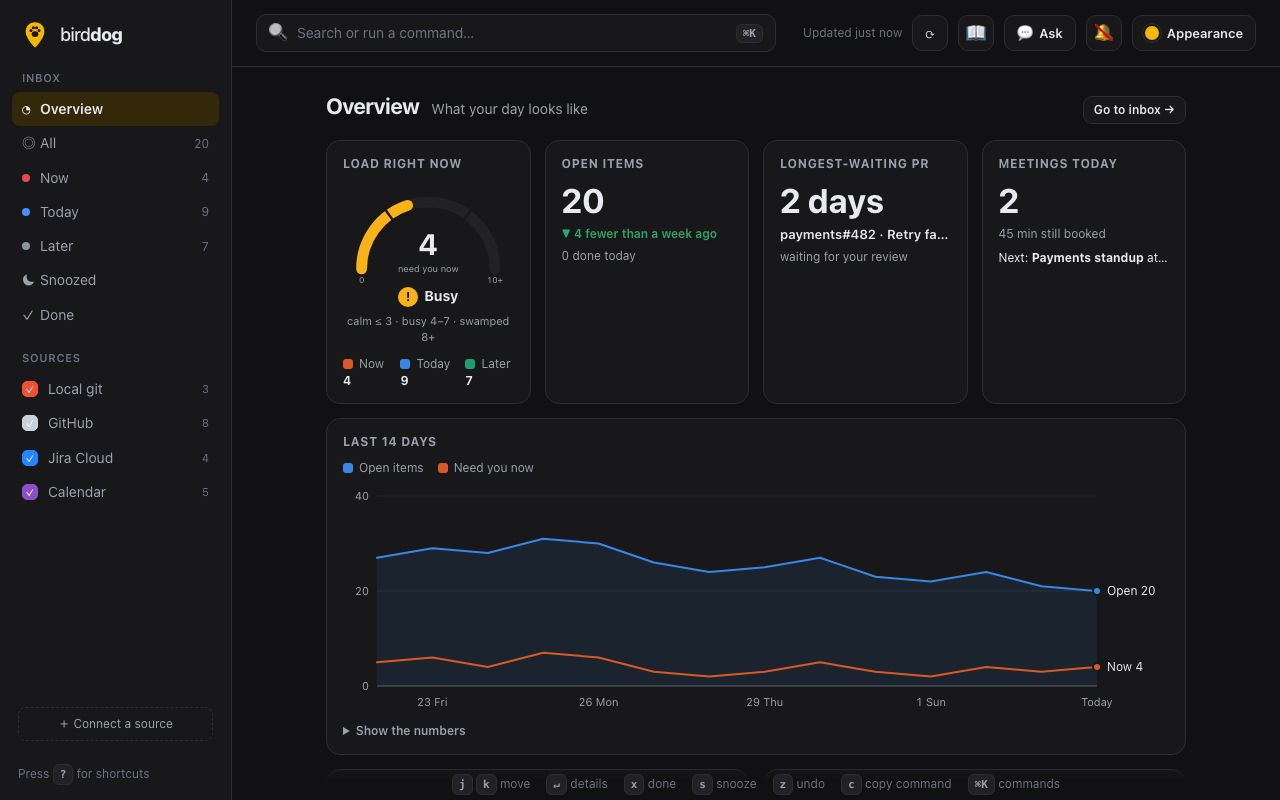
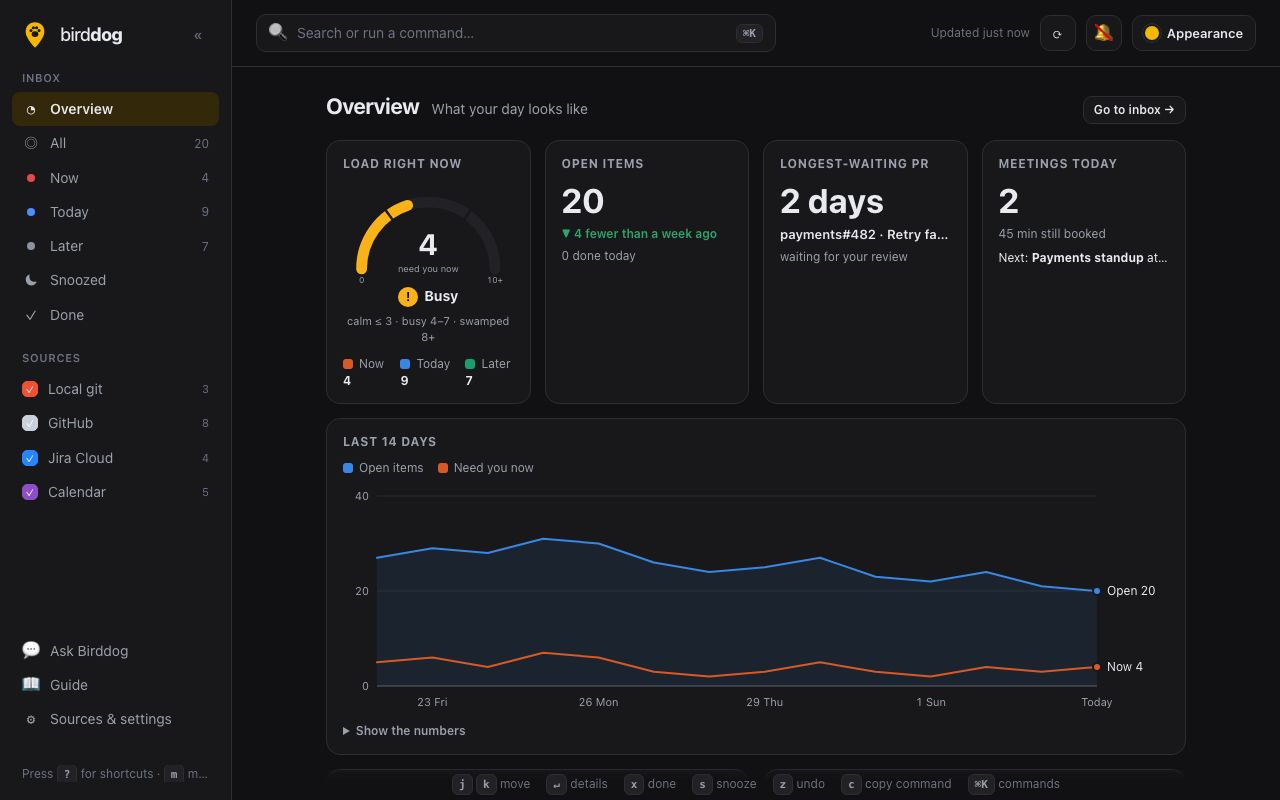
Collapsible main menu rail (v1.6)
The left sidebar is now the main menu: Overview, the inbox views,
sources, Ask Birddog, the guide, and Sources & settings.
- It collapses to icons with count badges (« or `m`); every icon keeps
  its label as a tooltip and accessible name.
- Its state is remembered (prefs railOpen).
- On phones it becomes a drawer behind a ☰ button, with a scrim and
  Esc to close.
- It fits alongside the guide rail. Both open: the main column stays
  usable, and the guide docks next to a collapsed menu from 1060px
  and floats over the page below that.

Ask and Guide moved from the top bar into the menu. The chat panel no
longer flashes its setup view before its status loads; screenshots
re-taken.

Docs: how to register the working copy as Claude Code's MCP server.

194 tests.

diff --git a/public/js/app.js b/public/js/app.js
@@ -88,11 +88,11 @@ const current = () => { const l = ordered(); return l[selIndex(l)]; };
 // Rendering
 
 function renderNav() {
-  const ov = `<button class="${st.view === 'overview' ? 'active' : ''}" data-view="overview" aria-current="${st.view === 'overview'}"><span style="width:8px;text-align:center" aria-hidden="true">◔</span>Overview<kbd class="hint">0</kbd><span class="count"></span></button>`;
+  const ov = `<button class="${st.view === 'overview' ? 'active' : ''}" data-view="overview" aria-current="${st.view === 'overview'}" title="Overview (0)" aria-label="Overview"><span class="ico" aria-hidden="true">◔</span><span class="rl">Overview</span><kbd class="hint">0</kbd><span class="count"></span></button>`;
   $('#views').innerHTML = ov + VIEWS.map(([k, label, icon], n) => {
-    const dot = URG[k] ? `<span class="dot" style="background:${URG[k].c}"></span>` : `<span style="width:8px;text-align:center" aria-hidden="true">${icon}</span>`;
+    const mark = URG[k] ? `<span class="ico" aria-hidden="true"><span class="dot" style="background:${URG[k].c}"></span></span>` : `<span class="ico" aria-hidden="true">${icon}</span>`;
     const count = visible(k).length;
-    return `<button class="${st.view === k ? 'active' : ''}" data-view="${k}" aria-current="${st.view === k}">${dot}${label}<kbd class="hint">${n + 1}</kbd><span class="count">${count || ''}</span></button>`;
+    return `<button class="${st.view === k ? 'active' : ''}" data-view="${k}" aria-current="${st.view === k}" title="${label} (${n + 1})" aria-label="${label}${count ? `, ${count}` : ''}">${mark}<span class="rl">${label}</span><kbd class="hint">${n + 1}</kbd><span class="count">${count || ''}</span></button>`;
   }).join('');
 
   const real = st.sources.map((s) => {
@@ -101,7 +101,7 @@ function renderNav() {
     const status = s.status === 'stale' ? `<span class="src-status warn" title="${esc(staleTitle(s))}">! stale</span>`
       : s.status === 'pending' ? '<span class="src-status">…</span>'
         : `<span class="src-status">${s.count || ''}</span>`;
-    return `<button class="src-toggle ${on ? 'on' : ''}" data-src="${esc(s.id)}" style="--c:${info.c}" aria-pressed="${on}" title="${on ? 'Hide' : 'Show'} ${esc(s.name)} items"><span class="check">${on ? '✓' : ''}</span>${esc(s.name)}${status}</button>`;
+    return `<button class="src-toggle ${on ? 'on' : ''} ${s.status === 'stale' ? 'is-stale' : ''}" data-src="${esc(s.id)}" style="--c:${info.c}" aria-pressed="${on}" title="${on ? 'Hide' : 'Show'} ${esc(s.name)} items${s.status === 'stale' ? ' (stale)' : ''}" aria-label="${esc(s.name)}${s.status === 'stale' ? ', stale' : ''}"><span class="check" aria-hidden="true">${on ? '✓' : ''}</span><span class="rl">${esc(s.name)}</span>${status}</button>`;
   });
   const soon = COMING.filter(([id]) => !st.sources.some((s) => s.id === id))
     .map(([id, name]) => `<button class="src-toggle soon" data-soon="${id}" title="Coming soon"><span class="check"></span>${name}<span class="src-status">soon</span></button>`);
@@ -421,7 +421,37 @@ const snoozeOpen = () => $('#snooze').classList.contains('open');
 // ---------------------------------------------------------------------------
 // Views, sources, overlays
 
-function setView(v) { st.view = v; st.selId = null; closeDrawer(); render(); }
+function setView(v) { st.view = v; st.selId = null; closeDrawer(); closeMobileRail(); render(); }
+
+// ---------------------------------------------------------------------------
+// Main menu rail: collapsible on desktop (icons only), a drawer on phones.
+
+const mobile = () => matchMedia('(max-width: 760px)').matches;
+function setRail(open, { save = true } = {}) {
+  document.body.classList.toggle('rail-collapsed', !open);
+  const t = $('#railToggle');
+  t.setAttribute('aria-expanded', String(open));
+  t.title = open ? 'Collapse the menu (m)' : 'Expand the menu (m)';
+  t.setAttribute('aria-label', open ? 'Collapse the menu' : 'Expand the menu');
+  if (save) savePrefs({ railOpen: open });
+  window.dispatchEvent(new Event('resize'));
+}
+function openMobileRail() {
+  document.body.classList.add('rail-mobile-open');
+  $('#railScrim').hidden = false;
+  $('#menuBtn').setAttribute('aria-expanded', 'true');
+  $('#rail').querySelector('button')?.focus();
+}
+function closeMobileRail() {
+  if (!document.body.classList.contains('rail-mobile-open')) return;
+  document.body.classList.remove('rail-mobile-open');
+  $('#railScrim').hidden = true;
+  $('#menuBtn').setAttribute('aria-expanded', 'false');
+}
+function toggleRail() {
+  if (mobile()) return document.body.classList.contains('rail-mobile-open') ? closeMobileRail() : openMobileRail();
+  return setRail(document.body.classList.contains('rail-collapsed'));
+}
 
 function setHidden(next) {
   st.hidden = new Set(next);
@@ -464,6 +494,7 @@ function commands() {
     { label: 'Notifications…', run: () => toggleNotifyPanel() },
     { label: 'Ask Birddog…', k: 'a', run: () => toggleChat() },
     { label: guideOpen() ? 'Hide the guide' : 'Open the guide', k: 'g', run: () => toggleGuide() },
+    { label: document.body.classList.contains('rail-collapsed') ? 'Expand the menu' : 'Collapse the menu', k: 'm', run: () => toggleRail() },
     ...[['start', 'Getting started'], ['sources', 'Sources'], ['notifications', 'Notifications'], ['chat', 'Ask Birddog'], ['docker', 'Docker'], ['mcp', 'MCP']].map(([id, t]) => ({ label: `Guide: ${t}`, run: () => openGuide(id) })),
     ...Object.entries(PALETTE_NAMES).map(([p, n]) => ({ label: `Theme: ${n}`, run: () => setPalette(p) })),
     { label: 'Mode: follow system', run: () => setMode('system') },
@@ -969,11 +1000,14 @@ document.addEventListener('click', (e) => {
 $('#openPalette').onclick = () => openPalette();
 let resizeTimer = null;
 window.addEventListener('resize', () => { clearTimeout(resizeTimer); resizeTimer = setTimeout(() => { if (st.view === 'overview') renderOverview(); }, 120); });
-$('#openSetup').onclick = () => openSetup();
+$('#openSetup').onclick = () => { closeMobileRail(); openSetup(); };
 $('#refresh').onclick = refresh;
 $('#appearBtn').onclick = (e) => { e.stopPropagation(); appearOpen() ? closeAppear() : openAppear(); };
-$('#chatBtn').onclick = () => toggleChat();
-$('#guideBtn').onclick = () => toggleGuide();
+$('#chatBtn').onclick = () => { closeMobileRail(); toggleChat(); };
+$('#railToggle').onclick = () => toggleRail();
+$('#menuBtn').onclick = () => openMobileRail();
+$('#railScrim').onclick = () => closeMobileRail();
+$('#guideBtn').onclick = () => { closeMobileRail(); toggleGuide(); };
 for (const type of ['click', 'input', 'keydown']) $('#guideRail').addEventListener(type, (e) => { if (onGuideEvent(e)) e.stopPropagation(); });
 for (const type of ['click', 'change', 'submit', 'keydown']) $('#chatPanel').addEventListener(type, (e) => { e.stopPropagation(); onChatEvent(e); });
 $('#notifyBtn').onclick = (e) => { e.stopPropagation(); closeAppear(); toggleNotifyPanel(); };
@@ -998,6 +1032,7 @@ document.addEventListener('keydown', (e) => {
     if (appearOpen()) return closeAppear();
     if (notifyPanelOpen()) return closeNotifyPanel();
     if (chatOpen()) return closeChat();
+    if (document.body.classList.contains('rail-mobile-open')) return closeMobileRail();
     if (overlay() || snoozeOpen()) return closeAll();
     if (drawerOpen()) return closeDrawer();
     if (st.query) { st.query = ''; render(); }
@@ -1033,6 +1068,7 @@ document.addEventListener('keydown', (e) => {
     case 'o': return openLink(sel);
     case 'a': e.preventDefault(); return toggleChat();
     case 'g': e.preventDefault(); return toggleGuide();
+    case 'm': e.preventDefault(); return toggleRail();
     case 'r': return refresh();
     // No toast here: it would replace a pending "Undo" toast, and the change is visible anyway.
     case 't': toggleTheme(); return;
@@ -1085,6 +1121,7 @@ async function boot() {
   initAppearance({ prefs, save: savePrefs, changed: () => { if (appearOpen()) renderAppear(); loadShots(); } });
   initGuide({ open: !!prefs.guideOpen, save: (open) => savePrefs({ guideOpen: open }), theme: () => document.documentElement.dataset.theme });
   st.hidden = new Set(prefs.hiddenSources ?? []);
+  setRail(prefs.railOpen !== false, { save: false });
   render();
   await load();
   initChat({ api, toast, onChanged: () => load({ quiet: true }) });

diff --git a/public/css/birddog.css b/public/css/birddog.css
@@ -34,11 +34,13 @@ a{color:var(--accent)}
 kbd{font:600 11px/1 ui-monospace,SFMono-Regular,Menlo,monospace;padding:3px 6px;border-radius:6px;background:var(--panel-2);border:1px solid var(--line);color:var(--muted)}
 code{font:12.5px/1.5 ui-monospace,SFMono-Regular,Menlo,monospace}
 .sr-only{position:absolute;width:1px;height:1px;overflow:hidden;clip:rect(0 0 0 0);white-space:nowrap}
-.app{display:grid;grid-template-columns:232px 1fr;height:100vh}
-body.guide-open .app{grid-template-columns:232px minmax(0,1fr) 360px}
+:root{--rail-w:232px}
+body.rail-collapsed{--rail-w:64px}
+.app{display:grid;grid-template-columns:var(--rail-w) minmax(0,1fr);height:100vh;transition:grid-template-columns .2s ease}
+body.guide-open .app{grid-template-columns:var(--rail-w) minmax(0,1fr) 360px}
 
 /* Sidebar */
-aside{border-right:1px solid var(--line);padding:18px 12px;display:flex;flex-direction:column;gap:18px;background:var(--panel);overflow:auto}
+.rail{border-right:1px solid var(--line);padding:18px 12px;display:flex;flex-direction:column;gap:18px;background:var(--panel);overflow-x:hidden;overflow-y:auto;min-width:0}
 .brand{display:flex;align-items:center;gap:10px;padding:2px 8px;font-weight:500;font-size:18px;letter-spacing:-.03em}
 .brand b{font-weight:800}
 .logo{width:30px;height:30px;display:grid;place-items:center}.logo svg{width:30px;height:30px}
@@ -56,13 +58,10 @@ aside{border-right:1px solid var(--line);padding:18px 12px;display:flex;flex-dir
 .src-toggle.soon .check{border-style:dashed}
 .src-status{margin-left:auto;font-size:11px;color:var(--faint);font-variant-numeric:tabular-nums}
 .src-status.warn{color:var(--warn);font-weight:600}
-.sidebar-foot{margin-top:auto;display:flex;flex-direction:column;gap:6px;padding:0 6px;font-size:12px;color:var(--faint)}
-.sidebar-foot button{border:1px dashed var(--line);background:none;border-radius:8px;padding:7px;color:var(--muted)}
-.sidebar-foot button:hover{border-color:var(--accent);color:var(--accent)}
 .me{display:flex;align-items:center;gap:8px;padding:6px 2px;color:var(--muted);min-width:0}
 .me .who{flex:1;min-width:0;overflow:hidden;text-overflow:ellipsis;white-space:nowrap}
 .me .avatar{width:22px;height:22px;border-radius:50%;display:grid;place-items:center;background:var(--brand-bg);color:var(--on-brand);font-weight:700;font-size:11px;flex:none}
-.sidebar-foot .me button{border:0;padding:2px 4px;font-size:12px}
+.rail-foot .me button{border:0;background:none;padding:2px 4px;font-size:12px;color:var(--muted)}
 .code{font:700 22px/1 ui-monospace,SFMono-Regular,Menlo,monospace;letter-spacing:.12em;padding:10px 12px;border-radius:8px;background:var(--panel-2);text-align:center;color:var(--text)}
 
 /* Main */
@@ -305,11 +304,14 @@ main{display:flex;flex-direction:column;min-width:0;overflow:hidden}
 .toast button{background:none;border:0;color:var(--accent);font-weight:700;filter:brightness(1.3);white-space:nowrap}
 .toast kbd{background:transparent;color:inherit;border-color:currentColor;opacity:.6}
 
-.keybar{position:fixed;bottom:0;left:232px;right:var(--guide-w,0px);display:flex;gap:16px;justify-content:center;padding:8px;font-size:12px;color:var(--faint);background:linear-gradient(transparent,var(--bg) 40%);pointer-events:none}
+.keybar{position:fixed;bottom:0;left:var(--rail-w);right:var(--guide-w,0px);display:flex;gap:16px;justify-content:center;padding:8px;font-size:12px;color:var(--faint);background:linear-gradient(transparent,var(--bg) 40%);pointer-events:none}
 
 @media (max-width:760px){
-  .app{grid-template-columns:1fr}
-  aside{display:none}
+  .app,body.rail-collapsed .app,body.guide-open .app{grid-template-columns:1fr}
+  .rail{position:fixed;top:0;left:0;bottom:0;width:min(84vw,280px);z-index:40;transform:translateX(-105%);transition:transform .22s ease;box-shadow:var(--shadow)}
+  body.rail-mobile-open .rail{transform:none}
+  .rail-toggle{display:none}
+  .menu-btn{display:grid!important}
   .keybar{display:none}
   .topbar{padding:12px 16px}
   .content{padding:16px 16px 60px}
@@ -443,3 +445,42 @@ body.guide-open .guide{display:flex}
 .page-head .btn{white-space:nowrap}
 @media (max-width:1100px){.topbar .updated{display:none}}
 @media (max-width:1400px){body.guide-open .keybar{display:none}}
+
+/* ---- Main menu rail ------------------------------------------------------- */
+.brand{position:relative}
+.rail-toggle{margin-left:auto;width:26px;height:26px;border-radius:7px;border:1px solid transparent;background:none;color:var(--faint);font-size:14px;line-height:1;display:grid;place-items:center;flex:none}
+.rail-toggle:hover{border-color:var(--line);color:var(--text)}
+.nav .ico{width:18px;flex:none;display:grid;place-items:center;font-size:14px}
+nav .rl,.rail .rl{white-space:nowrap;overflow:hidden;text-overflow:ellipsis;min-width:0}
+.rail-foot{margin-top:auto;display:flex;flex-direction:column;gap:8px}
+.rail-foot .nav button{color:var(--muted)}
+.rail-hint{font-size:12px;color:var(--faint);padding:0 10px}
+.rail-foot .me{padding:6px 10px}
+.menu-btn{display:none}
+.rail-scrim{position:fixed;inset:0;background:rgba(10,12,16,.35);z-index:39}
+.src-toggle.is-stale .check{box-shadow:0 0 0 2px var(--panel),0 0 0 3.5px var(--warn)}
+/* Collapsed: icons only. Labels move into tooltips (title) and accessible names. */
+body.rail-collapsed .rail{padding:18px 8px;align-items:stretch}
+body.rail-collapsed .rail .rl,body.rail-collapsed .rail .nav-label,body.rail-collapsed .rail .hint,body.rail-collapsed .rail .src-status,body.rail-collapsed .rail .me .who,body.rail-collapsed .rail .me button{display:none}
+body.rail-collapsed .brand{flex-direction:column;gap:8px;padding:2px 0}
+body.rail-collapsed .rail-toggle{margin:0;transform:rotate(180deg)}
+body.rail-collapsed .nav button{justify-content:center;padding:8px 0;position:relative}
+body.rail-collapsed .nav .count{position:absolute;top:1px;right:4px;margin:0;font-size:10px;font-weight:700;min-width:15px;height:15px;line-height:15px;border-radius:8px;text-align:center;background:var(--panel-2);color:var(--text)}
+body.rail-collapsed .nav .count:empty{display:none}
+body.rail-collapsed .nav button[data-view="now"] .count{background:var(--now);color:#fff}
+body.rail-collapsed .rail>div:not(.brand):not(.rail-foot){border-top:1px solid var(--line);padding-top:10px}
+body.rail-collapsed .rail .me{justify-content:center;padding:6px 0}
+@media (max-width:760px){
+  body.rail-collapsed .rail .rl,body.rail-collapsed .rail .nav-label,body.rail-collapsed .rail .src-status{display:revert}
+  body.rail-collapsed .rail{padding:18px 12px}
+  body.rail-collapsed .nav button{justify-content:flex-start;padding:7px 10px}
+  body.rail-collapsed .nav .count{position:static;background:none;color:var(--faint);margin-left:auto}
+  body.rail-collapsed .brand{flex-direction:row}
+}
+/* With the menu collapsed, the guide can dock on narrower screens too. */
+@media (min-width:1060px) and (max-width:1199px){
+  body.rail-collapsed.guide-open .app{grid-template-columns:var(--rail-w) minmax(0,1fr) 360px}
+  body.rail-collapsed.guide-open{--guide-w:360px}
+  body.rail-collapsed.guide-open .guide{position:static;width:auto;box-shadow:none;z-index:auto}
+}
+#guideBtn[aria-expanded="true"],#chatBtn.on{color:var(--accent)}

diff --git a/public/index.html b/public/index.html
@@ -20,8 +20,9 @@
 </defs></svg>
 
 <div class="app">
-  <aside>
-    <div class="brand"><div class="logo"><svg viewBox="0 0 64 64" aria-hidden="true"><use href="#pin"/></svg></div><span>bird<b>dog</b></span></div>
+  <aside class="rail" id="rail" aria-label="Main menu">
+    <div class="brand"><div class="logo"><svg viewBox="0 0 64 64" aria-hidden="true"><use href="#pin"/></svg></div><span class="rl">bird<b>dog</b></span>
+      <button class="rail-toggle" id="railToggle" aria-controls="rail" aria-expanded="true" title="Collapse the menu (m)" aria-label="Collapse the menu">«</button></div>
     <div>
       <div class="nav-label">Inbox</div>
       <nav class="nav" id="views" aria-label="Views"></nav>
@@ -30,20 +31,24 @@
       <div class="nav-label">Sources</div>
       <nav class="nav" id="sources" aria-label="Sources"></nav>
     </div>
-    <div class="sidebar-foot">
-      <button id="openSetup">＋ Connect a source</button>
+    <div class="rail-foot">
+      <nav class="nav" aria-label="Tools">
+        <button id="chatBtn" title="Ask Birddog (a)" aria-label="Ask Birddog"><span class="ico" aria-hidden="true">💬</span><span class="rl">Ask Birddog</span><kbd class="hint">a</kbd></button>
+        <button id="guideBtn" title="Guide (g)" aria-label="Guide" aria-controls="guideRail" aria-expanded="false"><span class="ico" aria-hidden="true">📖</span><span class="rl">Guide</span><kbd class="hint">g</kbd></button>
+        <button id="openSetup" title="Sources and settings" aria-label="Sources and settings"><span class="ico" aria-hidden="true">⚙</span><span class="rl">Sources &amp; settings</span></button>
+      </nav>
       <div class="me" id="me" hidden></div>
-      <div>Press <kbd>?</kbd> for shortcuts</div>
+      <div class="rl rail-hint">Press <kbd>?</kbd> for shortcuts · <kbd>m</kbd> menu</div>
     </div>
   </aside>
+  <div class="rail-scrim" id="railScrim" hidden></div>
 
   <main>
     <div class="topbar">
+      <button class="icon-btn menu-btn" id="menuBtn" aria-label="Menu (m)" aria-controls="rail" aria-expanded="false">☰</button>
       <button class="search" id="openPalette" aria-label="Search or run a command"><span aria-hidden="true">🔍</span><span>Search or run a command…</span><kbd>⌘K</kbd></button>
       <span class="updated" id="updated" aria-live="polite"></span>
       <button class="icon-btn" id="refresh" title="Refresh (r)" aria-label="Refresh"><span>⟳</span></button>
-      <button class="icon-btn guide-btn" id="guideBtn" title="Guide (g)" aria-label="Guide" aria-controls="guideRail" aria-expanded="false">📖</button>
-      <button class="ask-btn" id="chatBtn" title="Ask Birddog (a)" aria-label="Ask Birddog"><span aria-hidden="true">💬</span><span>Ask</span></button>
       <button class="icon-btn notify-btn" id="notifyBtn" title="Notifications" aria-label="Notifications" aria-haspopup="dialog">🔕</button>
       <button class="appear-btn" id="appearBtn" title="Appearance" aria-haspopup="dialog"><i></i><span>Appearance</span></button>
     </div>
@@ -71,6 +76,7 @@
   <div>Switch view <span><kbd>1</kbd>–<kbd>6</kbd></span></div><div>Close <kbd>esc</kbd></div>
   <div>Restore (Done / Snoozed) <kbd>u</kbd></div><div>This sheet <kbd>?</kbd></div>
   <div>Ask Birddog <kbd>a</kbd></div><div>Guide <kbd>g</kbd></div>
+  <div>Overview <kbd>0</kbd></div><div>Menu <kbd>m</kbd></div>
 </div></div></div>
 
 <div class="scrim" id="setupScrim"><div class="modal setup" role="dialog" aria-labelledby="setupTitle">

diff --git a/public/js/chat.js b/public/js/chat.js
@@ -18,6 +18,7 @@ export function initChat(options) { ctx = options; }
 export async function openChat() {
   $('#chatPanel').classList.add('open');
   document.body.classList.add('chat-open');
+  if (!status) $('#chatPanel').innerHTML = '<header><div class="chat-title"><b>Ask Birddog</b></div><button class="icon-btn" data-chat="close" aria-label="Close chat">✕</button></header><div class="chat-body"><div class="msg-note">Loading…</div></div>';
   try { status = await ctx.api.chatStatus(); } catch (err) { status = { enabled: false, error: err.message }; }
   render();
   $('#chatInput')?.focus();

diff --git a/README.md b/README.md
@@ -384,6 +384,17 @@ Rules live in [`src/rules.mjs`](src/rules.mjs). They are checked top to bottom a
 
 Inside a group, items sort by rule order, then oldest first (the work that has waited longest is most at risk). A branch counts as either stale *or* unpushed, never both, and repos with no remote are never nagged about pushing.
 
+## Main menu
+
+The menu on the left holds everything:
+
+- **Overview**
+- the **inbox** views (All, Now, Today, Later, Snoozed, Done)
+- your **sources** (click one to hide or show its items)
+- **Ask Birddog**, the **Guide**, and **Sources & settings**
+
+Collapse it to icons with « or `m`. Counts stay visible as small badges (Now in red), and every icon keeps its name as a tooltip and for screen readers. Birddog remembers which way you left it. On a phone it becomes a drawer behind ☰. It fits beside the guide rail: with both open, the page in the middle keeps at least ~640px on wide screens, and on narrower ones the guide floats over the page instead.
+
 ## User guide
 
 Press 📖 or `g` for the **guide**, a searchable rail on the right: getting started, sources, triage, shortcuts, notifications, chat, Docker and MCP. On wide screens it docks beside the page; on narrower ones it floats over it. It remembers whether you left it open, and `⌘K` → *Guide: …* jumps to a section.
@@ -452,7 +463,7 @@ All of it lives in `~/.config/birddog/state.json`, along with your theme.
 | `c` | copy suggested command | `o` | open link |
 | `r` | refresh | `/` or `⌘K` | command palette |
 | `0` | Overview | `?` | shortcuts |
-| `g` | guide | | |
+| `g` | guide | `m` | collapse / expand the menu |
 | `1`–`6` | All / Now / Today / Later / Snoozed / Done | `a` | Ask Birddog |
 | `t` | light / dark | `p` | next theme |
 
@@ -644,6 +655,13 @@ npm test          # node:test, no dependencies, no network; builds throwaway git
 npm run dev       # start and open the browser
 npm run dev:watch # live reload: restarts on src/ changes, reloads open pages on src/ or public/ changes
 npm run screenshots  # guide screenshots in light and dark, from --demo (needs `npm install` for Playwright)
+```
+
+To use your working copy as Claude Code's MCP server while you develop (`npx` runs the published release instead):
+
+```bash
+claude mcp add --scope user birddog -- "$(command -v node)" "$PWD/bin/birddog.mjs" mcp
+claude mcp list    # birddog … ✓ Connected
 ```
 
 `dev:watch` uses Node's built-in `--watch`, so it needs nothing extra. It doesn't open a browser, because it would open a new tab on every restart; open `http://127.0.0.1:4747` yourself once.

diff --git a/CHANGELOG.md b/CHANGELOG.md
@@ -2,6 +2,19 @@
 
 All notable changes to Birddog. The format follows [Keep a Changelog](https://keepachangelog.com/en/1.1.0/), and versions follow [Semantic Versioning](https://semver.org/).
 
+## [1.6.0] - 2026-11-04
+
+### Added
+- **Collapsible main menu**: Overview, the inbox views, sources, Ask Birddog, the guide, and Sources & settings, all in the left rail.
+  - It collapses to icons with count badges (« or `m`), and every icon keeps its label as a tooltip and accessible name.
+  - It remembers its state.
+  - On phones it's a drawer behind ☰.
+  - It works alongside the guide rail: the guide docks next to a collapsed menu from 1060px wide.
+
+### Changed
+- Ask Birddog and the guide moved from the top bar into the menu.
+- The chat panel shows "Loading…" instead of briefly flashing its setup screen.
+
 ## [1.5.0] - 2026-11-04
 
 ### Added
@@ -95,7 +108,8 @@ All notable changes to Birddog. The format follows [Keep a Changelog](https://ke
 - Ranked, keyboard-first inbox where every item explains why it's there; done, snooze and undo; three themes in light and dark.
 - Optional OpenID Connect login for the dashboard, GitHub sign-in (gh CLI or device flow), and OS keychain secrets.
 
-[1.5.0]: https://github.com/marcsalot/birddog/compare/35cffb9...main
+[1.6.0]: https://github.com/marcsalot/birddog/compare/0b78f3b...main
+[1.5.0]: https://github.com/marcsalot/birddog/compare/35cffb9...0b78f3b
 [1.4.0]: https://github.com/marcsalot/birddog/compare/f1288c5...35cffb9
 [1.3.0]: https://github.com/marcsalot/birddog/compare/c5a5fad...f1288c5
 [1.2.0]: https://github.com/marcsalot/birddog/compare/74c3238...c5a5fad
